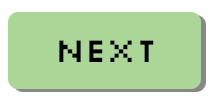
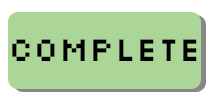
rearrange the order of mini-game

Changed region(s): [[0.1714, 0.39, 0.7429, 0.63], [0.7714, 0.39, 0.9429, 0.63], [0.0571, 0.39, 0.1429, 0.63]]

diff --git a/isometricgame/core/src/main/java/com/isometricgame/core/GameAvoid.java b/isometricgame/core/src/main/java/com/isometricgame/core/GameAvoid.java
@@ -16,6 +16,22 @@ import com.badlogic.gdx.scenes.scene2d.ui.Dialog;
 
 public class GameAvoid extends GameState {
 
+   private final int BOX1_LEFT = 5865;
+   private final int BOX1_TOP = -451;
+   private final int BOX1_RIGHT = 6349;
+   private final int BOX1_BOTTOM = -539;
+
+   private final int BOX2_LEFT = 6217;
+   private final int BOX2_TOP = -610;
+   private final int BOX2_RIGHT = 6313;
+   private final int BOX2_BOTTOM = -752;
+
+   private final int BOX3_LEFT = 6568;
+   private final int BOX3_TOP = -775;
+   private final int BOX3_RIGHT = 6920;
+   private final int BOX3_BOTTOM = -657;
+
+
    private GameManager gm; 
    private SpriteBatch batch;
    private BitmapFont scoreFont; 
@@ -187,23 +203,23 @@ public class GameAvoid extends GameState {
         /**/System.out.println(player.getPositionY());
 
         if(pos1 == 0) {
-         if( 1477 <= player.getPositionX() && player.getPositionX() <= 1741) {
-           if( 779 <= player.getPositionY() && player.getPositionY() <= 966) {
+         if( BOX1_LEFT <= player.getPositionX() && player.getPositionX() <= BOX1_RIGHT) {
+           if( BOX1_BOTTOM <= player.getPositionY() && player.getPositionY() <= BOX1_TOP) {
                return true;
                 }
               }
             }
     
         else if(pos1 == 1) {
-               if( 1864 <= player.getPositionX() && player.getPositionX() <= 2143) {
-                 if( 779 <= player.getPositionY() && player.getPositionY() <= 966) {
+               if( BOX2_LEFT <= player.getPositionX() && player.getPositionX() <= BOX2_RIGHT) {
+                 if( BOX2_BOTTOM <= player.getPositionY() && player.getPositionY() <= BOX2_TOP) {
                   return true;
                     }
                   }
                 }
         else if(pos1 == 2) {
-               if(2220 <= player.getPositionX() && player.getPositionX() <= 2500) {
-                 if( 779 <= player.getPositionY() && player.getPositionY() <= 966) {
+               if(BOX3_LEFT <= player.getPositionX() && player.getPositionX() <= BOX3_RIGHT) {
+                 if( BOX3_BOTTOM <= player.getPositionY() && player.getPositionY() <= BOX3_TOP) {
                    return true;
                    }
                   }

diff --git a/isometricgame/core/src/main/java/com/isometricgame/core/clickdrag/GameLevel1.java b/isometricgame/core/src/main/java/com/isometricgame/core/clickdrag/GameLevel1.java
@@ -24,10 +24,9 @@ public class GameLevel1 extends GameState {
 	
 	private GameManager gm;
 	private TextureRegion background;
-	private Texture next, nextActive;
+	private Texture complete, completeActive;
 	private SpriteBatch batch;
 	private Puzzles puzzles;
-	private boolean complete = false;
     
 	public GameLevel1(GameManager gm) {
 		super();	
@@ -52,13 +51,15 @@ public class GameLevel1 extends GameState {
 		if(puzzles.checkTagetAnswer()){
 			batch.begin();
 			if (mouseHovering(x, y)) {
-	            batch.draw(nextActive, NEXT_X, NEXT_Y, NEXT_WIDTH, NEXT_HEIGHT);
-	            if (Gdx.input.isButtonPressed(Input.Buttons.LEFT)) {                
-	                gm.newGameStateByName("START2");
-	                gm.setCurrGameState("START2");;
+	            batch.draw(completeActive, NEXT_X, NEXT_Y, NEXT_WIDTH, NEXT_HEIGHT);
+	            if (Gdx.input.isButtonPressed(Input.Buttons.LEFT)) {
+	            	// set the first game state passed to true so that the trigger point can detect correctly
+					passed = true;               
+	                // go back to GAMEMAIN
+					gm.setCurrGameState("MAINGAME");
 	            }
 	        } else {
-	            batch.draw(next, NEXT_X, NEXT_Y, NEXT_WIDTH, NEXT_HEIGHT);
+	            batch.draw(complete, NEXT_X, NEXT_Y, NEXT_WIDTH, NEXT_HEIGHT);
 	        }
 			batch.end();			
 		}
@@ -86,8 +87,8 @@ public class GameLevel1 extends GameState {
 		batch = new SpriteBatch();
 		puzzles = new Puzzles();
 		puzzles.create();
-		next = new Texture("clickanddrag/continue_button.png");
-		nextActive = new Texture("clickanddrag/continue_button2.png");
+		complete = new Texture("clickanddrag/continue_button.png");
+		completeActive = new Texture("clickanddrag/continue_button2.png");
     }
 
     @Override
@@ -108,8 +109,8 @@ public class GameLevel1 extends GameState {
 	@Override
 	public void dispose () {
 		puzzles.dispose();
-		next.dispose();
-		nextActive.dispose();
+		complete.dispose();
+		completeActive.dispose();
 	}
 
 }

diff --git a/isometricgame/core/src/main/java/com/isometricgame/core/gamemanager/GameManager.java b/isometricgame/core/src/main/java/com/isometricgame/core/gamemanager/GameManager.java
@@ -77,15 +77,15 @@ public class GameManager {
 		GameState newGS = null;
 		
 		//Added new gameState or replaced the failed state with a newly-created one
-		if(gsName.equals("MINIGAME1")) {
+		if(gsName.equals("DROPGAME1")) {
 			newGS = new GameDrop(this);
-		}else if(gsName.equals("MINIGAME2")) {
-			newGS = new Start1(this);
-		}else if(gsName.equals("START2")) {
-			newGS = new Start2(this);
-		}else if(gsName.equals("START3")) {
-			newGS = new Start3(this);
-		}else if(gsName.equals("COMPLETE")) {
+		}else if(gsName.equals("DRAGGAME1")) {
+			newGS = new GameLevel1(this);
+		}else if(gsName.equals("DRAGGAME2")) {
+			newGS = new GameLevel2(this);
+		}else if(gsName.equals("DRAGGAME3")) {
+			newGS = new GameLevel3(this);
+		}/*else if(gsName.equals("COMPLETE")) {
 			newGS = new Complete(this);
 		}else if(gsName.equals("GAMELEVEL1")) {
 			newGS = new GameLevel1(this);
@@ -93,7 +93,7 @@ public class GameManager {
 			newGS = new GameLevel2(this);
 		}else if(gsName.equals("GAMELEVEL3")) {
 			newGS = new GameLevel3(this);
-		}else if(gsName.equals("MINIGAME3")) {
+		}*/else if(gsName.equals("AVOIDGAME")) {
 			newGS = new GameAvoid(this);
 		}else if(gsName.equals("FINALGAME")) {
 			newGS = new GameMaze(this);

diff --git a/isometricgame/core/src/main/java/com/isometricgame/core/GameMAIN.java b/isometricgame/core/src/main/java/com/isometricgame/core/GameMAIN.java
@@ -78,9 +78,9 @@ public class GameMAIN extends GameState {
 
 	// Mini-game trigger points
 	private ArrayList<TriggerPoint> tgp;
-    private final float[] tgpX = {1170, 1880, 1930, 3030, 5463, 6291, 8183};
-	private final float[] tgpY = {50, -10, 840, 390, -22, -660, -1887};
-	private final String[] allStateName = {"MINIGAME3", "MINIGAME2", "MINIGAME3", "FINALGAME", "MINIGAME2", "MINIGAME1", "MINIGAME3" };
+    private final float[] tgpX = {1170, /*1880,*/ 1930, 3030, 5463, 6291, 8183};
+	private final float[] tgpY = {50, /*-10,*/ 840, 390, -22, -660, -1887};
+	private final String[] allStateName = {"DRAGGAME1",/* "",*/ "DRAGGAME2", "DROPGAME1", "DRAGGAME3", "AVOIDGAME", "FINALGAME" };
 
 	// Isometric parameters
 	private final double theta = Math.toDegrees(Math.atan(0.5));

diff --git a/isometricgame/core/src/main/java/com/isometricgame/core/clickdrag/Puzzles.java b/isometricgame/core/src/main/java/com/isometricgame/core/clickdrag/Puzzles.java
@@ -7,7 +7,6 @@ import com.badlogic.gdx.Gdx;
 import com.badlogic.gdx.graphics.Color;
 import com.badlogic.gdx.graphics.GL20;
 import com.badlogic.gdx.graphics.Texture;
-// import com.badlogic.gdx.graphics.g2d.TextureRegion;
 import com.badlogic.gdx.graphics.g2d.SpriteBatch;
 import com.badlogic.gdx.graphics.g2d.BitmapFont;
 import com.badlogic.gdx.scenes.scene2d.InputEvent;
@@ -58,12 +57,10 @@ public class Puzzles implements ApplicationListener {
 
 	@Override
 	public void resize (int width, int height) {
-		// stage.getViewport().update(width, height, true);
 	}
 
 	@Override
 	public void render () {
-		// Gdx.gl.glClear(GL20.GL_COLOR_BUFFER_BIT);
 		stage.act(Gdx.graphics.getDeltaTime());
 		stage.draw();
 	}

diff --git a/isometricgame/core/src/main/java/com/isometricgame/core/clickdrag/GameLevel3.java b/isometricgame/core/src/main/java/com/isometricgame/core/clickdrag/GameLevel3.java
@@ -53,8 +53,10 @@ public class GameLevel3 extends GameState {
 			if (mouseHovering(x, y)) {
 	            batch.draw(nextActive, NEXT_X, NEXT_Y, NEXT_WIDTH, NEXT_HEIGHT);
 	            if (Gdx.input.isButtonPressed(Input.Buttons.LEFT)) {                
-	                gm.newGameStateByName("COMPLETE");
-	                gm.setCurrGameState("COMPLETE");;
+	                // set the first game state passed to true so that the trigger point can detect correctly
+					passed = true;               
+	                // go back to GAMEMAIN
+					gm.setCurrGameState("MAINGAME");
 	            }
 	        } else {
 	            batch.draw(next, NEXT_X, NEXT_Y, NEXT_WIDTH, NEXT_HEIGHT);

diff --git a/isometricgame/core/src/main/java/com/isometricgame/core/clickdrag/GameLevel2.java b/isometricgame/core/src/main/java/com/isometricgame/core/clickdrag/GameLevel2.java
@@ -53,8 +53,10 @@ public class GameLevel2 extends GameState {
 			if (mouseHovering(x, y)) {
 	            batch.draw(nextActive, NEXT_X, NEXT_Y, NEXT_WIDTH, NEXT_HEIGHT);
 	            if (Gdx.input.isButtonPressed(Input.Buttons.LEFT)) {                
-	                gm.newGameStateByName("START3");
-	                gm.setCurrGameState("START3");;
+	                // set the first game state passed to true so that the trigger point can detect correctly
+					passed = true;               
+	                // go back to GAMEMAIN
+					gm.setCurrGameState("MAINGAME");
 	            }
 	        } else {
 	            batch.draw(next, NEXT_X, NEXT_Y, NEXT_WIDTH, NEXT_HEIGHT);

diff --git a/isometricgame/core/src/main/java/com/isometricgame/core/GameDrop.java b/isometricgame/core/src/main/java/com/isometricgame/core/GameDrop.java
@@ -284,6 +284,7 @@ public class GameDrop extends GameState {
 		if (right == 1) {
 //			player.setPositionX((int) oldx - 100); // will need to change these when moving post box around
 //			player.setPositionY((int) oldy - 50);
+			passed = true;
 			gm.setCurrGameState("MAINGAME");
 			medal = true;
 		}
